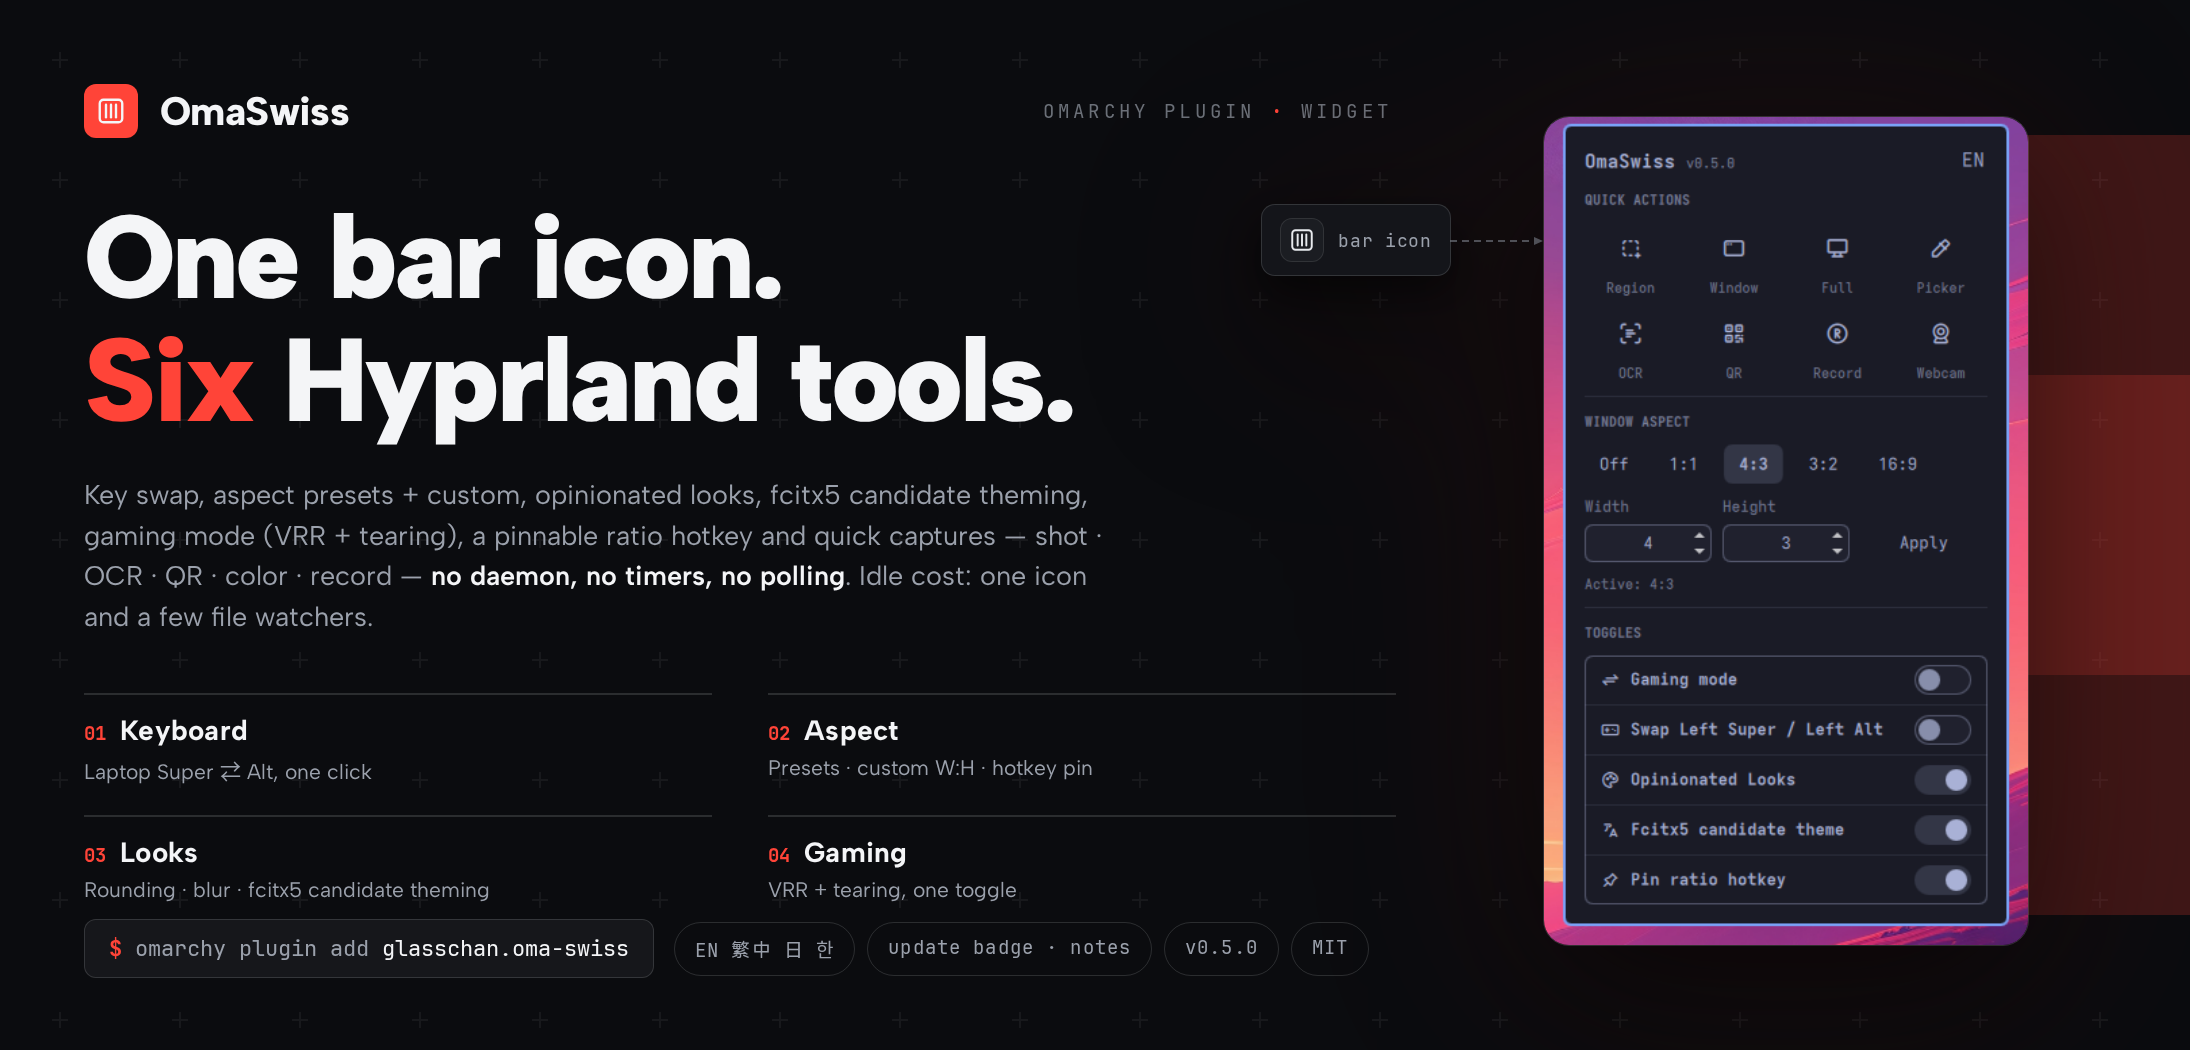
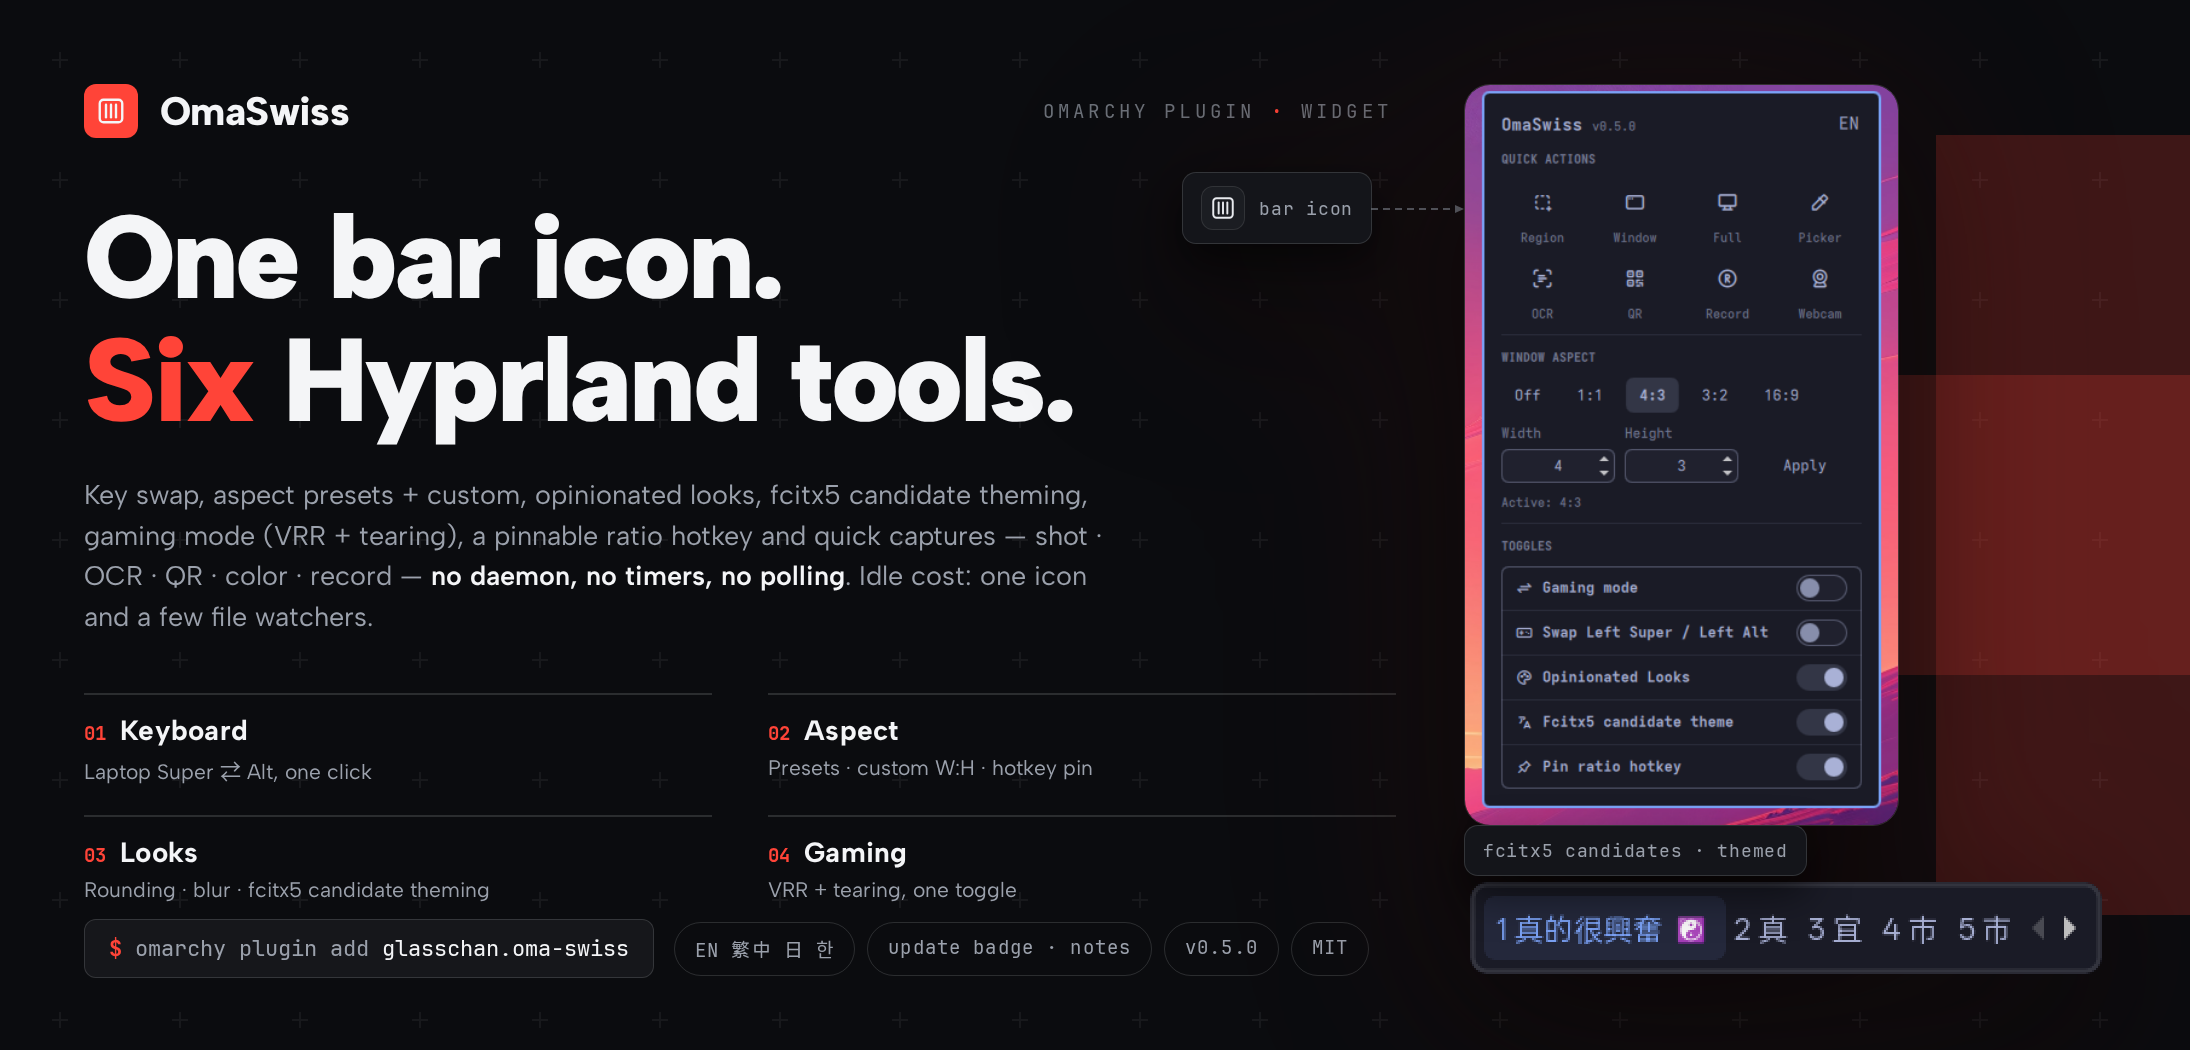
docs: cover features the themed fcitx5 candidate strip

Changed region(s): [[0.5279, 0.061, 0.9626, 0.9448]]

diff --git a/design/cover.html b/design/cover.html
@@ -147,9 +147,32 @@
   }
   .panel {
     display: block;
-    height: 830px; width: auto;
+    height: 742px; width: auto;
     border-radius: 26px;
     border: 1px solid rgba(244,245,247,0.16);
+  }
+
+  /* fcitx5 themed candidate strip: live capture, stacked under the panel */
+  .strip-block {
+    position: relative;
+    margin-top: 56px;
+  }
+  .fcitx-strip {
+    display: block;
+    width: 644px; height: 96px;   /* natural 2x size — 1:1 device pixels, stays crisp */
+  }
+  .strip-chip {
+    position: absolute; left: 0; bottom: calc(100% + 6px);
+    background: #14151A;
+    border: 1px solid var(--hairline);
+    border-radius: 14px;
+    padding: 13px 18px;
+    box-shadow: 0 18px 40px rgba(0,0,0,0.5);
+  }
+  .strip-chip .label {
+    font-family: "JetBrainsMono Nerd Font", monospace;
+    font-size: 18px; color: var(--ink-2); letter-spacing: 0.04em;
+    white-space: nowrap;
   }
 
   /* bar-icon chip: the "one icon" story, connected to the popup */
@@ -266,6 +289,10 @@
           <div class="connector"></div>
         </div>
         <img class="panel" src="../panel.png" alt="">
+        <div class="strip-block">
+          <div class="strip-chip"><div class="label">fcitx5 candidates · themed</div></div>
+          <img class="fcitx-strip" src="fcitx5-candidates.png" alt="fcitx5 themed candidate window">
+        </div>
       </div>
     </div>
   </div>

diff --git a/AGENTS.md b/AGENTS.md
@@ -87,7 +87,7 @@ When the user requests a durable behavior change, record it here or in the relev
 
 ## Ownership
 
-- Root-owned files: `README.md`, `README.zh-Hant.md`, `LICENSE`, `manifest.json`, `BarWidget.qml`, `ToolPanel.qml`, `EvalQueue.qml`, `fcitx5-theme.sh`, `tabler-icons.ttf` (subset), `preview.png` (73:35 marketing cover), `panel.png` (raw panel screenshot), `design/cover.html` (cover source), `.github/workflows/*`, `scripts/check-submission.sh`, `scripts/check-hardening.sh`, `.gitignore`, and root-level project documentation.
+- Root-owned files: `README.md`, `README.zh-Hant.md`, `LICENSE`, `manifest.json`, `BarWidget.qml`, `ToolPanel.qml`, `EvalQueue.qml`, `fcitx5-theme.sh`, `tabler-icons.ttf` (subset), `preview.png` (73:35 marketing cover), `panel.png` (raw panel screenshot), `design/cover.html` (cover source), `design/fcitx5-candidates.png` (themed fcitx5 candidate-strip capture embedded by the cover; kept as a 2x NEAREST upscale so cover text stays pixel-crisp — re-crop from source screenshots, never smooth-resize), `.github/workflows/*`, `scripts/check-submission.sh`, `scripts/check-hardening.sh`, `.gitignore`, and root-level project documentation.
 
 ## Local Contracts
 

diff --git a/README.zh-Hant.md b/README.zh-Hant.md
@@ -62,7 +62,8 @@ repo 內所有被追蹤的檔案，以及各自的角色：
 │       ├── ci.yml                    # CI：校驗 manifest，並執行提交規範與安全強化檢查
 │       └── release.yml               # CI：發布 GitHub Release（tag 須與 manifest 版本一致，打包 zip + sha256）
 ├── design/
-│   └── cover.html                    # preview.png 封面的原始檔（以 headless Chromium 轉譯）
+│   ├── cover.html                    # preview.png 封面的原始檔（以 headless Chromium 轉譯）
+│   └── fcitx5-candidates.png         # 封面內嵌的 fcitx5 主題候選字列截圖（2x 最近鄰放大）
 ├── docs/
 │   ├── agents/                       # 給編碼代理的操作說明：issue 追蹤、分類標籤、領域文件
 │   │   ├── domain.md

diff --git a/README.md b/README.md
@@ -96,7 +96,8 @@ Every tracked file in the repo, with its role:
 │       ├── ci.yml                    # CI: manifest validation + submission/hardening checks
 │       └── release.yml               # CI: tag-checked release packaging (zip + sha256 + GitHub Release)
 ├── design/
-│   └── cover.html                    # Source for the preview.png cover (rendered with headless Chromium)
+│   ├── cover.html                    # Source for the preview.png cover (rendered with headless Chromium)
+│   └── fcitx5-candidates.png         # Themed fcitx5 candidate strip embedded in the cover (2x NEAREST upscale)
 ├── docs/
 │   ├── agents/                       # Notes for coding agents: issue tracker, triage labels, domain docs
 │   │   ├── domain.md
